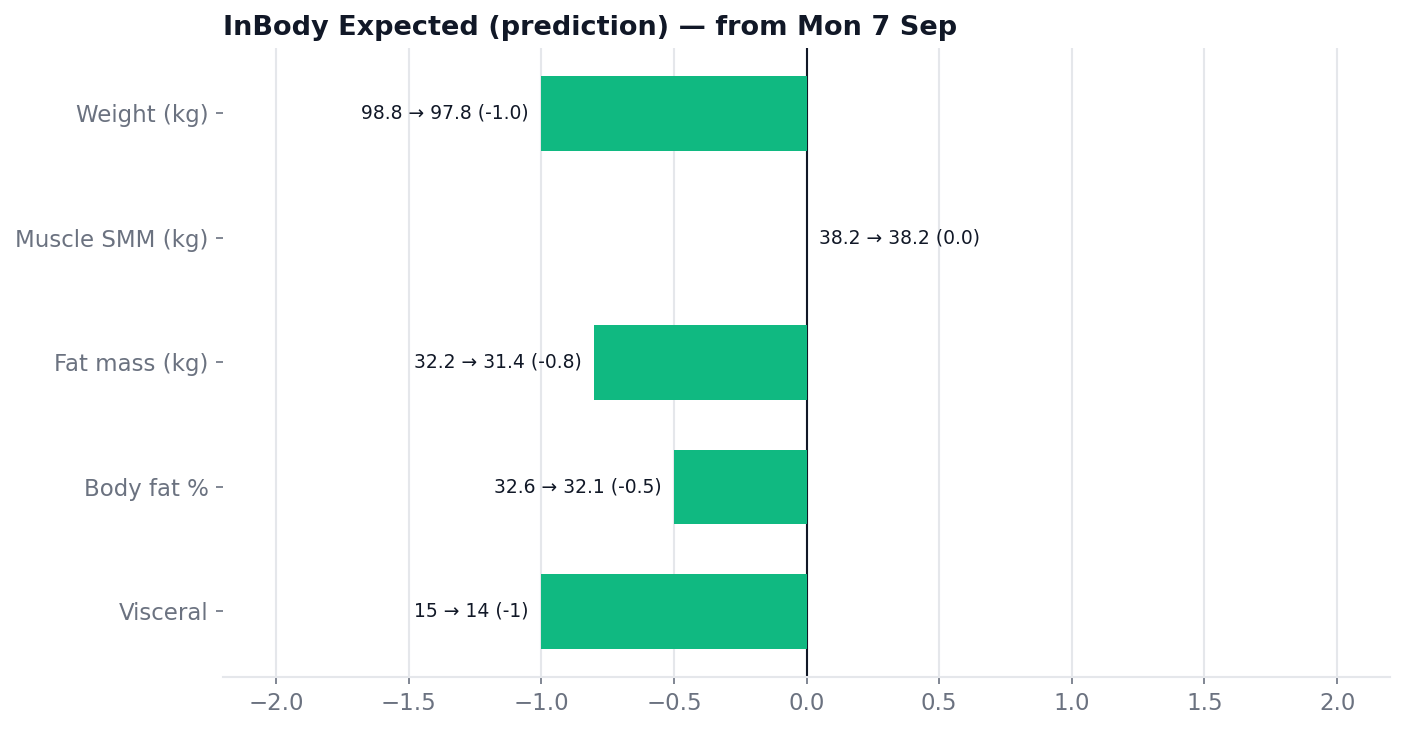
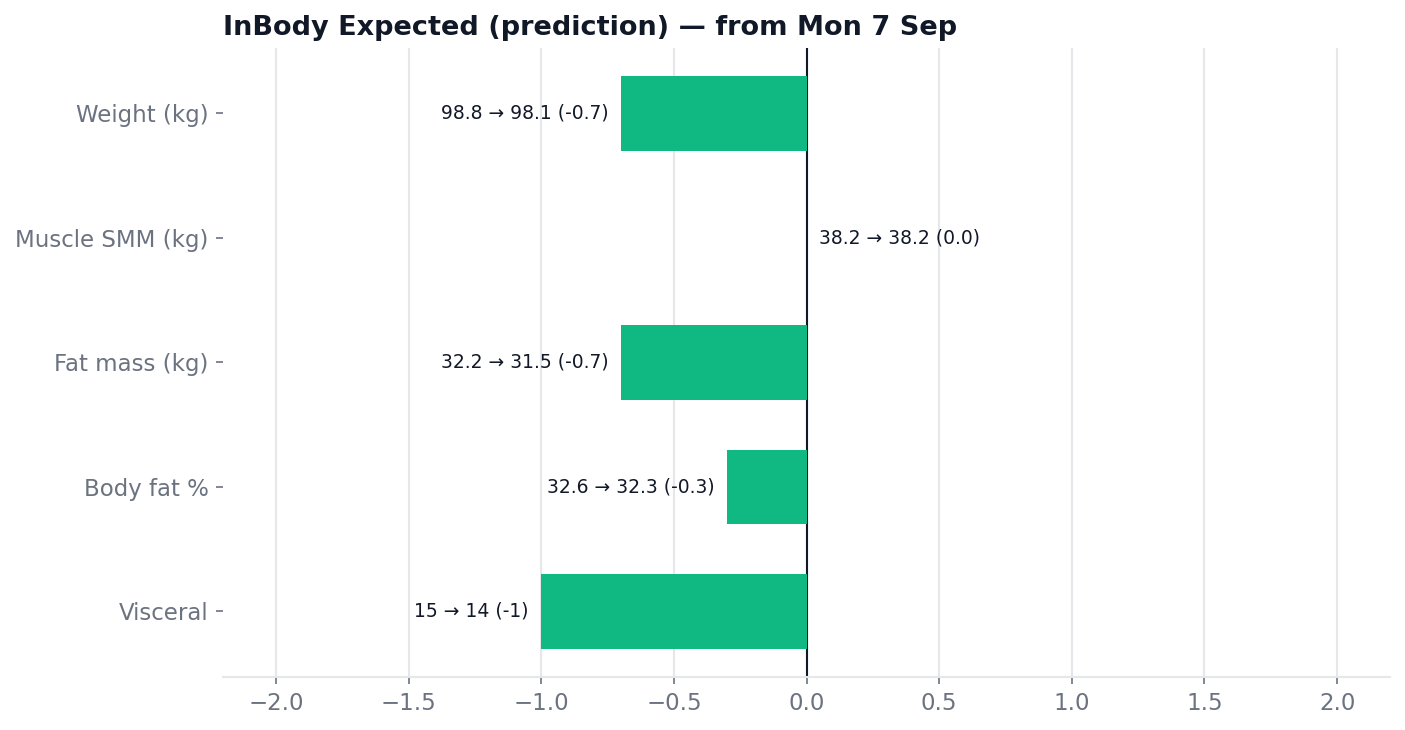
Add travel/schedule playbook; move Wk1 scan to Sun 13 Sep; fix stale gym table
- TRAVEL-AND-SCHEDULE.md: Ganeshotsav + Ratnagiri (18-21) + Mumbai (26-27) plan
- Week 1 scan -> Sun 13 Sep (6-day week), targets trimmed, water caveat
- Fix README gym-table day order to Push Mon / Pull Wed / Legs Fri

Changed region(s): [[0.2448, 0.0904, 0.4591, 0.211], [0.3673, 0.6027, 0.5203, 0.7233], [0.306, 0.4219, 0.4591, 0.5425]]

diff --git a/TRAVEL-AND-SCHEDULE.md b/TRAVEL-AND-SCHEDULE.md
@@ -1,0 +1,25 @@
+# Schedule Disruptions & Travel Playbook
+
+Over 100 days, life happens. The system handles it — **log what actually occurs and let the InBody tell the truth.** The goal on disrupted days isn't a perfect deficit; it's **not undoing progress.**
+
+## Known disruptions
+| Dates | Event | Plan |
+|-------|-------|------|
+| **Sun 13 Sep** | Ganeshotsav → no gym Mon 14 | **Push + InBody moved to SUN 13 AM** (scan is 6 days from baseline, not 7) |
+| **Sep 18–21** | Ratnagiri (work, ≥3 days) | Gym + diet uncertain → **maintenance mode** (see playbook) |
+| **Sep 26–27** | Mumbai (work, ~2 days) | Falls on a weekend (rest days) → just manage food |
+
+## Travel playbook (Ratnagiri especially)
+**On the road, maintenance is a win.** You do NOT need a deficit while traveling — holding steady, protein high, and not gaining fat is a total success. Trying to run a strict cut on work travel is how the plan gets abandoned.
+
+**Diet — protein first:**
+- **Carry whey sachets** — portable protein insurance; you can hit ~100–120 g even with zero good restaurant options.
+- Default order: **chicken / eggs / fish / paneer + veg.** Skip the bread basket, desserts, sugary drinks, alcohol.
+- Aim ~maintenance (~2,400–2,700 kcal), **protein ≥ 140 g.** Not gaining fat = winning.
+
+**Movement:**
+- **Walk** — steps are the win you can get anywhere (aim 6+ km/day).
+- No gym? **Hotel-room circuit:** push-ups, bodyweight squats, walking lunges, plank — 2–3× keeps the habit and the muscle-retention signal alive.
+- Or find a local gym for a quick 20–30 min session.
+
+**Mindset:** a *maintained* week on the road beats a "perfect" plan you quit. Log it honestly, come back, resume. No compensation binges/crashes after — just pick the plan back up.

diff --git a/logs/week-01-summary.md b/logs/week-01-summary.md
@@ -9,15 +9,17 @@ _(4 of 5 training days done; Legs Fri + weekend pending. Regenerate: `python3 ch
 
 ![Week 1 InBody target](../charts/week-01-inbody.png)
 
-| Metric | Baseline (7 Sep) | 🎯 **Target** (14 Sep) | **Actual** (14 Sep scan) | Hit? |
+**Scan moved to Sun 13 Sep** (Ganeshotsav → no gym Mon; Push + InBody done Sun AM). That's a 6-day week, so targets trimmed slightly.
+
+| Metric | Baseline (7 Sep) | 🎯 **Target** (13 Sep) | **Actual** (13 Sep scan) | Hit? |
 |--------|------------------|------------------------|--------------------------|------|
-| Weight (kg) | 98.8 | **97.8** (−1.0) | _TBD_ | |
+| Weight (kg) | 98.8 | **98.1** (−0.7) | _TBD_ | |
 | Muscle SMM (kg) | 38.2 | **38.2** (hold) | _TBD_ | |
-| Fat mass (kg) | 32.2 | **31.4** (−0.8) | _TBD_ | |
-| Body fat % | 32.6 | **32.1** (−0.5) | _TBD_ | |
+| Fat mass (kg) | 32.2 | **31.5** (−0.7) | _TBD_ | |
+| Body fat % | 32.6 | **32.3** (−0.3) | _TBD_ | |
 | Visceral | 15 | **14** (−1) | _TBD_ | |
 
-_Actual fills in Monday; the chart redraws Target vs Actual side-by-side. Note: this week had 2 higher-carb/drinking days, so **water noise may mask the weight number** — read fat + muscle, not just the scale._
+_Actual fills in Sun; the chart redraws Target vs Actual side-by-side. **Big caveat:** carb-heavy Fri + the weekend before the scan → **water retention may hide the weight/scale drop.** Read **fat mass + SMM**, not the scale, for the real verdict._
 
 ## Daily numbers
 | Day | Training | kcal | Protein | Carbs | Fat | Est. deficit* | Notes |

diff --git a/README.md b/README.md
@@ -49,10 +49,9 @@
 
 | Today | Open this |
 |-------|-----------|
-| **Monday** | ➡ [`workouts/legs.md`](./workouts/legs.md) |
-| **Wednesday** | ➡ [`workouts/push.md`](./workouts/push.md) |
-| **Friday** | ➡ [`workouts/pull.md`](./workouts/pull.md) |
-| Prep week (before Sep 7) | ➡ [`prep/calibration.md`](./prep/calibration.md) |
+| **Monday** | ➡ [`workouts/push.md`](./workouts/push.md) |
+| **Wednesday** | ➡ [`workouts/pull.md`](./workouts/pull.md) |
+| **Friday** | ➡ [`workouts/legs.md`](./workouts/legs.md) |
 
 **Not sure if a weight is right?** → [`reference/rir-cheatsheet.md`](./reference/rir-cheatsheet.md)
 
@@ -62,6 +61,7 @@
 | [`nutrition.md`](./nutrition.md) | Daily protein/calorie targets + food log + cheat-sheet | Daily |
 | [`logs/week-01-summary.md`](./logs/week-01-summary.md) | 📊 Week 1 dashboard + recap | Weekly |
 | [`WEEKLY-RITUAL.md`](./WEEKLY-RITUAL.md) | The repeatable weekly review process | Reference |
+| [`TRAVEL-AND-SCHEDULE.md`](./TRAVEL-AND-SCHEDULE.md) | Known disruptions + travel playbook | Reference |
 | [`logs/inbody-log.md`](./logs/inbody-log.md) | Weekly InBody scan (master signal) | Every Monday |
 | [`logs/inbody-history.md`](./logs/inbody-history.md) | Full scan history + trend + target | Reference |
 | [`logs/activity-log.md`](./logs/activity-log.md) | Apple Watch: walks, cardio, HR, calories | As you go |
